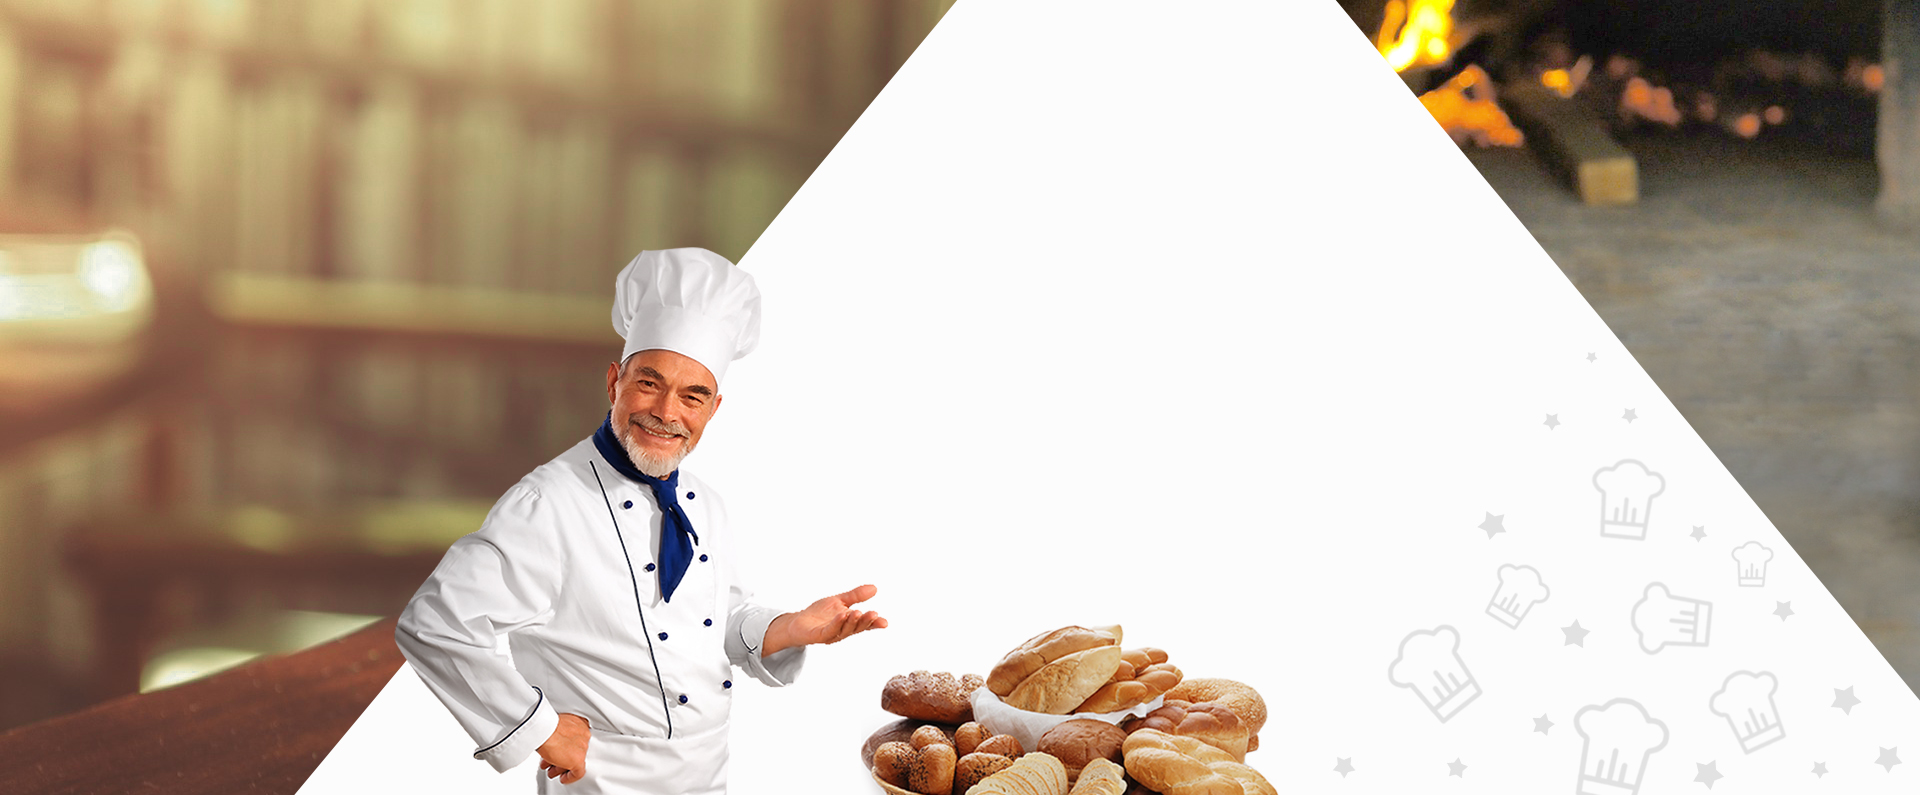
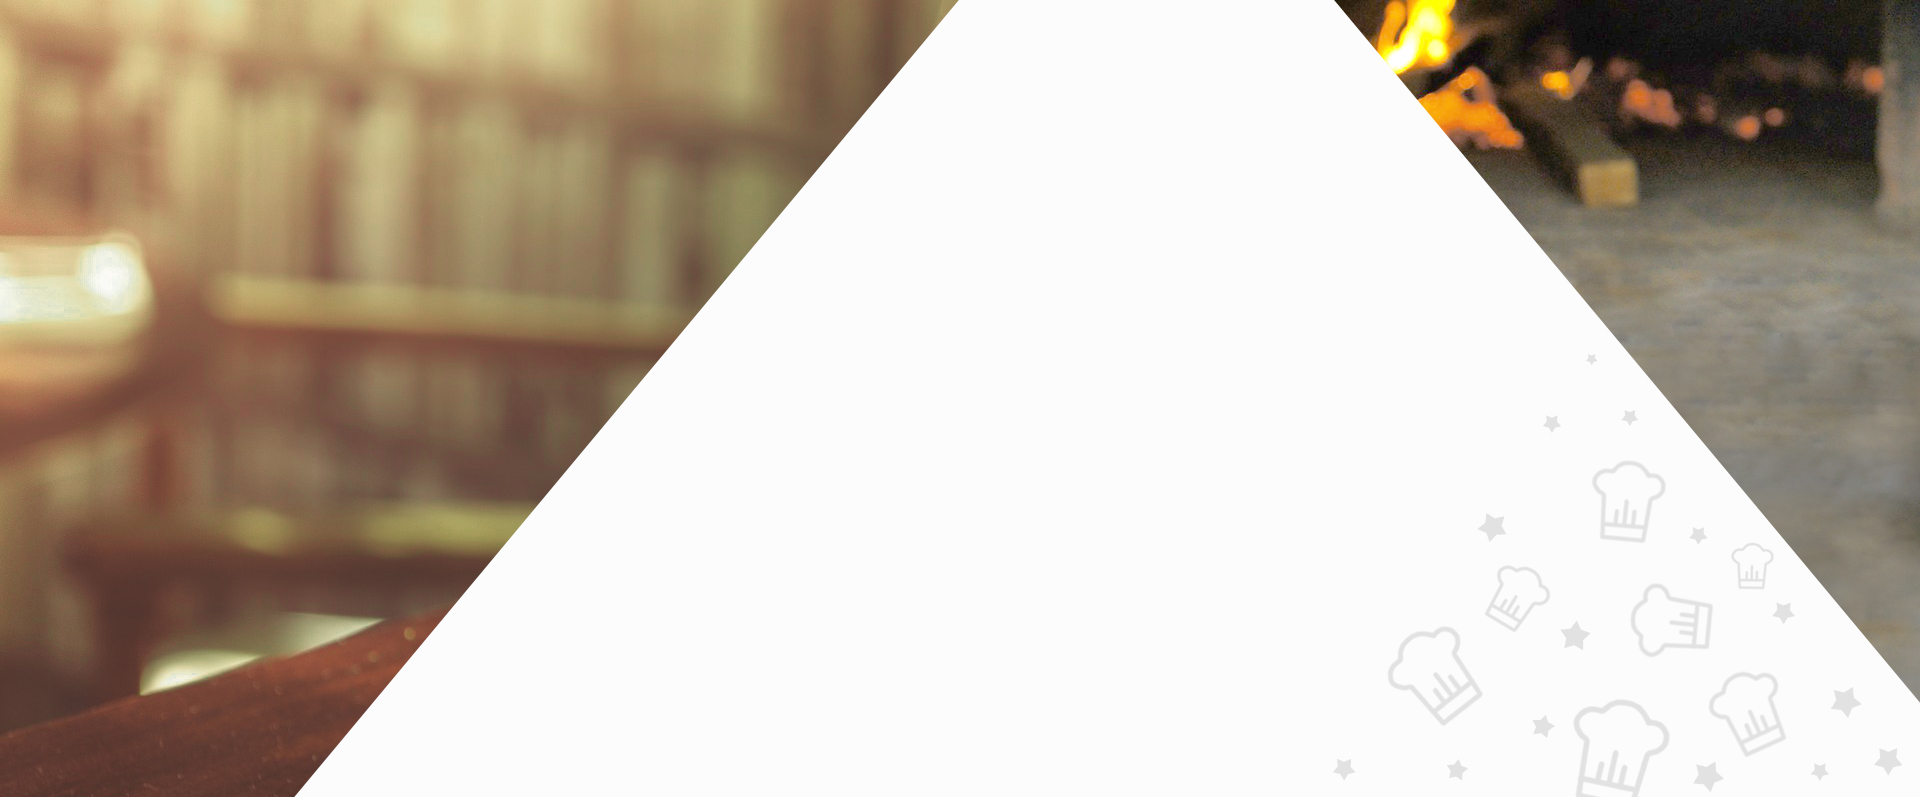
section-2 is done

Changed region(s): [[0.1875, 0.3019, 0.6875, 1.0], [0.7188, 0.0, 0.8125, 0.1811], [0.8438, 0.0906, 0.875, 0.1208]]

diff --git a/src/sass/_parts/_section-2.sass b/src/sass/_parts/_section-2.sass
@@ -1,11 +1,31 @@
 // BEGIN SECTION-2
 .sec-2
-  height: 650px
-  background-image: url('../img/@2x/bg--sec-2@2x.jpg')
+  position: relative
+  height: 750px
+  background-image: url('../img/@2x/bg--sec-2@2x.png')
   background-size: cover
   background-repeat: no-repeat
+  &::before
+    position: absolute
+    width: 495px
+    height: 548px
+    left: 180px
+    bottom: 0
+    background-image: url('../img/@2x/baker--sec-2@2x.png')
+    background-size: cover
+    content: ''
+  &::after
+    position: absolute
+    right: 100px
+    bottom: -160px
+    width: 420px
+    height: 253px
+    background-image: url('../img/@2x/bread-basket--sec-2@2x.png')
+    background-size: cover
+    content: ''
 
 .title--sec-2
+  padding-top: em(100px)
   margin-bottom: em(50px)
   font-family: $title
   font-size: rem(24px)
@@ -34,4 +54,8 @@
 
 .sec-2-text__par
   margin-bottom: em(10px)
+
+.empty-row
+  height: 115px
+  background-color: $bg-bright
 // END SECTION-2

diff --git a/src/index.html b/src/index.html
@@ -71,6 +71,13 @@
     </div>
   </div>
 </section>
+<div class="empty-row">
+  <div class="container">
+    <div class="row">
+      <div class="col"></div>
+    </div>
+  </div>
+</div>
 <!-- END SECTION-2 -->
 
   <script src="js/vendor.min.js"></script>
